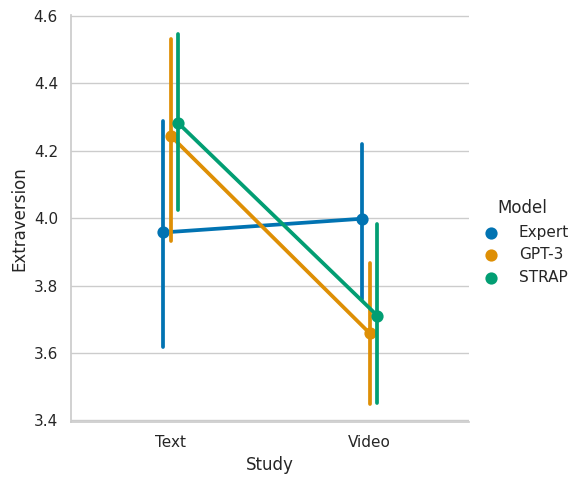
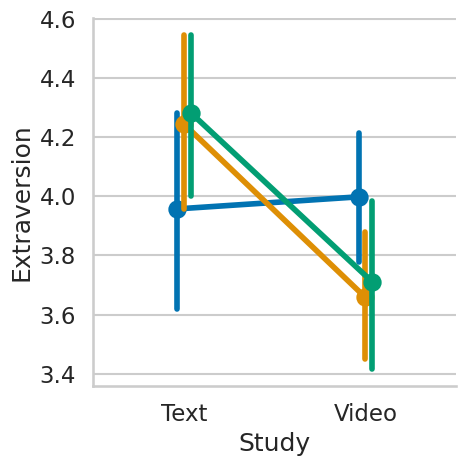
Update some plots generations and main title

Changed region(s): [[0.0, 0.0, 0.9914, 0.9914], [0.0601, 0.8412, 0.0901, 0.9013]]

diff --git a/video_study_data/plots/plots.py b/video_study_data/plots/plots.py
@@ -20,7 +20,8 @@ sns.catplot(
     hue_order=["Expert", "GPT-3", "STRAP"],
     dodge=True,
     sharex=True,
-    sharey=True
+    sharey=True,
+    legend=""
 ).savefig("video_study_data/plots/video_study_extraversion")
 
 # plot fluency, ext/int in x, model in y
@@ -34,7 +35,8 @@ sns.catplot(
     hue_order=["Expert", "GPT-3", "STRAP"],
     dodge=True,
     sharex=True,
-    sharey=True
+    sharey=True,
+    legend_out=False,
 ).savefig("video_study_data/plots/video_study_fluency")
 
 # plot fluency, ext/int in x, model in y
@@ -48,5 +50,6 @@ sns.catplot(
     kind="point",
     dodge=True,
     sharex=True,
-    sharey=True
+    sharey=True,
+    legend=""
 ).savefig("video_study_data/plots/video_study_emotions")

diff --git a/cross_study_data/plots/plots.py b/cross_study_data/plots/plots.py
@@ -6,7 +6,7 @@ data = pd.read_csv("cross_study_data/data4jasp.csv")
 sns.set_theme()
 sns.set_style("whitegrid")
 sns.set_palette("colorblind")
-# sns.set_context("talk")
+sns.set_context("talk")
 
 
 # plot extraversion, ext/int in x, model in y
@@ -20,7 +20,8 @@ sns.catplot(
     kind="point",
     dodge=True,
     sharex=True,
-    sharey=True
+    sharey=True,
+    legend=""
 ).savefig("cross_study_data/plots/cross_study_extraversion")
 
 # plot fluency, ext/int in x, model in y
@@ -34,5 +35,6 @@ sns.catplot(
     hue_order=["Expert", "GPT-3", "STRAP"],
     dodge=True,
     sharex=True,
-    sharey=True
+    sharey=True,
+    legend_out=False
 ).savefig("cross_study_data/plots/cross_study_fluency")

diff --git a/README.md b/README.md
@@ -1,4 +1,4 @@
-# Is "Psycho Shaman irl is here and i’m paid TVD Life!'' an Extroverted Version of "Hello and welcome''?? Development and Evaluation of Automatic Generation of Robotic Personality
+# Personality-Adapted Language Generation for Social Robots
 
 Anonymised code for paper submission to HRI conference 2023.
 
@@ -27,7 +27,7 @@ Other specific requirements can be found in each subfolder. E.g. requirements fo
 Start by cloning this repo.
 ```bash
 git clone <repo_link_anonymised_for_review>
-cd PsychoShamanIRL
+cd <repo_name_anonymised_for_review>
 ```
 Make sure pytorch (>1.9.0) is installed (see official documentation for the best way of doing this) in your working environment.
 ```bash
